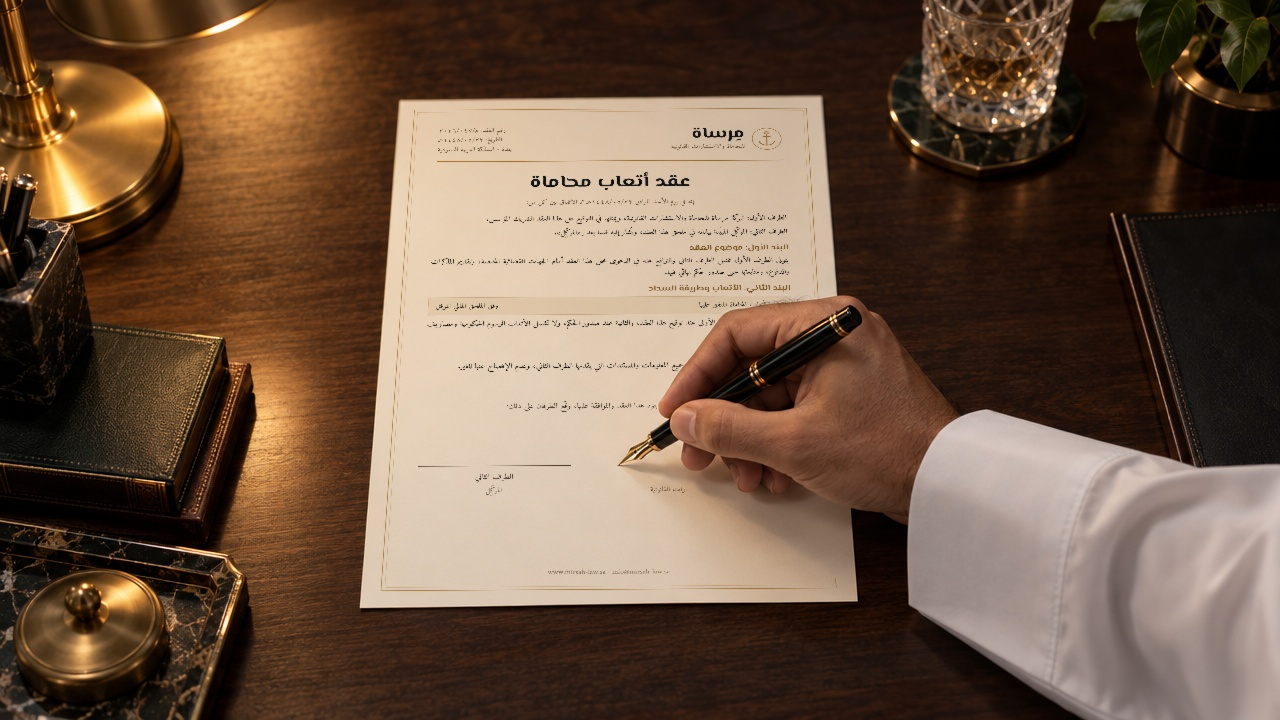
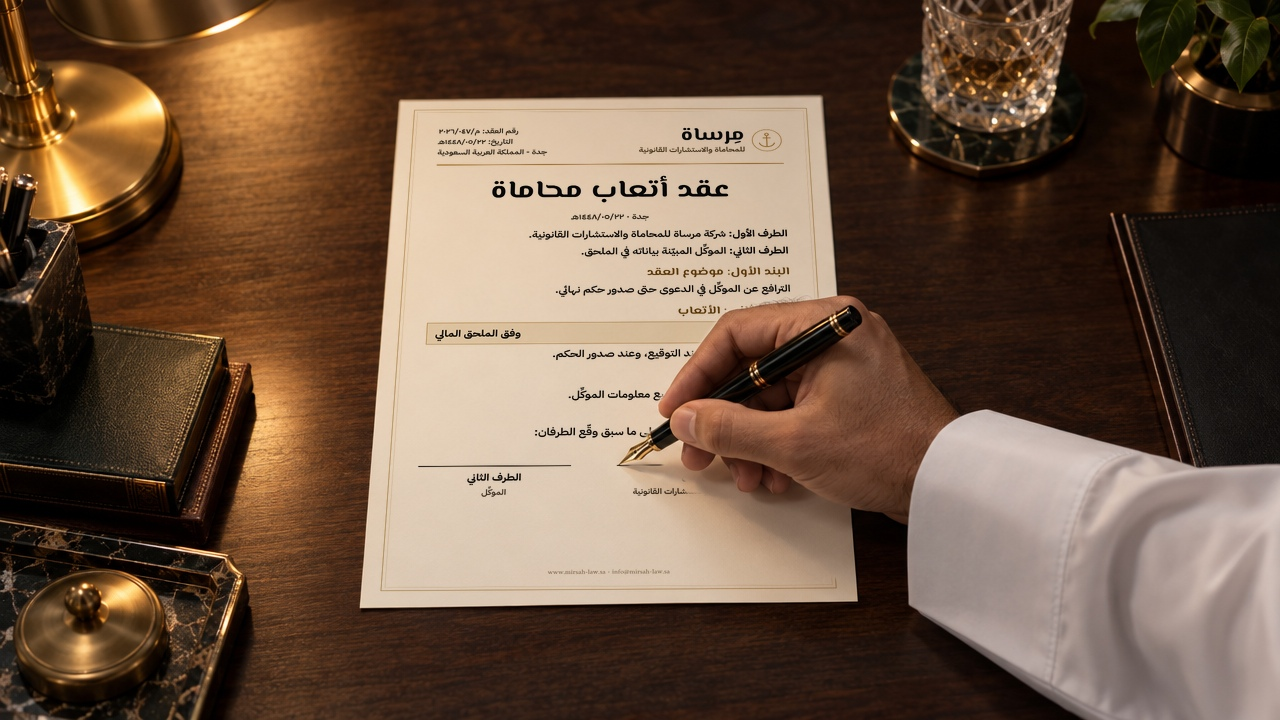
Make contract text larger and legible in the Kling start frame
Claude-Session: https://claude.ai/code/session_01Ga1p9oGE8DCELHe8fN9sZk

Changed region(s): [[0.3125, 0.1833, 0.625, 0.6111], [0.3438, 0.6417, 0.4062, 0.7028], [0.5, 0.6722, 0.5312, 0.7028]]

diff --git a/lawyer-jeddah/fee-contract.html b/lawyer-jeddah/fee-contract.html
@@ -1,6 +1,6 @@
 <!doctype html>
 <html lang="ar" dir="rtl"><head><meta charset="utf-8">
-<link rel="stylesheet" href="https://fonts.googleapis.com/css2?family=Amiri:wght@400;700&family=El+Messiri:wght@600;700&family=Mrs+Saint+Delafield&display=swap">
+<link rel="stylesheet" href="https://fonts.googleapis.com/css2?family=Amiri:wght@400;700&family=IBM+Plex+Sans+Arabic:wght@500;600;700&family=El+Messiri:wght@600;700&family=Mrs+Saint+Delafield&display=swap">
 <style>
 html,body{margin:0}
 .page{width:1240px;height:1754px;background:#FBF8F1;box-sizing:border-box;padding:110px 120px;font-family:"Amiri",serif;color:#24201A;position:relative}
@@ -8,19 +8,19 @@ html,body{margin:0}
 .page::after{content:"";position:absolute;inset:54px;border:1px solid #E3D4B0}
 .hd{display:flex;justify-content:space-between;align-items:center;border-bottom:3px solid #B8924A;padding-bottom:26px}
 .logo{display:flex;align-items:center;gap:18px}
-.logo b{font-family:"El Messiri";font-size:58px;line-height:1;color:#14161A}
-.logo small{display:block;font-size:22px;color:#7A6A4C}
-.no{font-size:22px;color:#6E6250;text-align:left;line-height:1.7}
-h1{font-family:"El Messiri";font-size:62px;text-align:center;margin:34px 0 6px;color:#14161A}
-.sub{text-align:center;font-size:22px;color:#6E6250;margin-bottom:22px}
-.p{font-size:24px;line-height:1.75;margin:0 0 10px;text-align:justify}
-.cl{font-family:"El Messiri";font-size:27px;color:#8C6A2C;margin:16px 0 4px}
-.fee{display:flex;justify-content:space-between;border:1.5px solid #D8C79F;background:#F4EDDD;padding:10px 20px;font-size:23px;margin:6px 0 10px}
+.logo b{font-family:"El Messiri";font-weight:700;font-size:70px;line-height:1;color:#14161A}
+.logo small{display:block;font-family:"IBM Plex Sans Arabic";font-weight:600;font-size:26px;color:#5E4E30}
+.no{font-family:"IBM Plex Sans Arabic";font-weight:600;font-size:26px;color:#3E372C;text-align:left;line-height:1.6}
+h1{font-family:"El Messiri";font-weight:700;font-size:92px;text-align:center;margin:30px 0 4px;color:#0E0F12}
+.sub{text-align:center;font-family:"IBM Plex Sans Arabic";font-weight:600;font-size:28px;color:#3E372C;margin-bottom:18px}
+.p{font-family:"IBM Plex Sans Arabic";font-weight:600;font-size:33px;line-height:1.6;margin:0 0 10px;color:#1A1712}
+.cl{font-family:"El Messiri";font-weight:700;font-size:38px;color:#7A5A1E;margin:22px 0 4px}
+.fee{display:flex;justify-content:space-between;border:2px solid #C9AE76;background:#F1E8D4;padding:12px 22px;font-family:"IBM Plex Sans Arabic";font-weight:700;font-size:32px;margin:6px 0 8px;color:#1A1712}
 .sigs{position:absolute;inset:0;pointer-events:none}
 .sig.first{position:absolute;left:640px;width:480px;top:1324px}
 .sig.second{position:absolute;left:120px;width:400px;top:1324px}
-.sig{border-top:2px solid #6E6250;padding-top:14px;text-align:center;font-size:24px;color:#4E463A;position:relative}
-.sig .name{font-size:22px;color:#7A6A4C}
+.sig{border-top:3px solid #3E372C;padding-top:12px;text-align:center;font-family:"IBM Plex Sans Arabic";font-weight:700;font-size:30px;color:#1A1712;position:relative}
+.sig .name{font-size:24px;font-weight:600;color:#4E4434}
 .ink{position:absolute;left:14px;right:0;top:-104px;text-align:left;font-family:"Mrs Saint Delafield",cursive;font-size:122px;line-height:1;color:#152A5C;transform:rotate(-4deg)}
 .foot{position:absolute;left:120px;right:120px;bottom:80px;text-align:center;font-size:19px;color:#9A8B6E}
 body.nosig .ink{display:none}
@@ -34,17 +34,17 @@ body.nosig .ink{display:none}
     <div class="no">رقم العقد: م/٢٠٢٦/٠٤٧<br>التاريخ: ١٤٤٨/٠٥/٢٢هـ<br>جدة - المملكة العربية السعودية</div>
   </div>
   <h1>عقد أتعاب محاماة</h1>
-  <div class="sub">إنه في يوم الأحد الموافق ١٤٤٨/٠٥/٢٢هـ تم الاتفاق بين كل من:</div>
-  <p class="p"><b>الطرف الأول:</b> شركة مرساة للمحاماة والاستشارات القانونية، ويمثلها في التوقيع على هذا العقد الشريك المؤسس.</p>
-  <p class="p"><b>الطرف الثاني:</b> الموكِّل المبيّنة بياناته في ملحق هذا العقد، ويُشار إليه فيما بعد بـ«الموكِّل».</p>
+  <div class="sub">جدة · ١٤٤٨/٠٥/٢٢هـ</div>
+  <p class="p"><b>الطرف الأول:</b> شركة مرساة للمحاماة والاستشارات القانونية.</p>
+  <p class="p"><b>الطرف الثاني:</b> الموكِّل المبيّنة بياناته في الملحق.</p>
   <div class="cl">البند الأول: موضوع العقد</div>
-  <p class="p">يتولى الطرف الأول تمثيل الطرف الثاني والترافع عنه في الدعوى محل هذا العقد أمام الجهات القضائية المختصة، وتقديم المذكرات والدفوع، ومتابعتها حتى صدور حكم نهائي فيها.</p>
-  <div class="cl">البند الثاني: الأتعاب وطريقة السداد</div>
-  <div class="fee"><span>إجمالي أتعاب المحاماة المتفق عليها</span><span>وفق الملحق المالي المرفق</span></div>
-  <p class="p">تُسدد الأتعاب على دفعتين: الأولى عند توقيع هذا العقد، والثانية عند صدور الحكم، ولا تشمل الأتعاب الرسوم الحكومية ومصاريف الخبراء.</p>
+  <p class="p">الترافع عن الموكِّل في الدعوى حتى صدور حكم نهائي.</p>
+  <div class="cl">البند الثاني: الأتعاب</div>
+  <div class="fee"><span>أتعاب المحاماة</span><span>وفق الملحق المالي</span></div>
+  <p class="p">تُسدد على دفعتين: عند التوقيع، وعند صدور الحكم.</p>
   <div class="cl">البند الثالث: السرية</div>
-  <p class="p">يلتزم الطرف الأول بالمحافظة على سرية جميع المعلومات والمستندات التي يقدمها الطرف الثاني، وعدم الإفصاح عنها للغير.</p>
-  <p class="p" style="position:absolute;left:120px;right:120px;top:1110px;text-align:center;color:#4E463A">وبعد الاطلاع على بنود هذا العقد والموافقة عليها، وقّع الطرفان على ذلك:</p>
+  <p class="p">يلتزم الطرف الأول بسرية جميع معلومات الموكِّل.</p>
+  <p class="p" style="position:absolute;left:120px;right:120px;top:1190px;text-align:center;color:#1A1712">وبناءً على ما سبق وقّع الطرفان:</p>
   <div class="sigs">
     <div class="sig second">الطرف الثاني<br><span class="name">الموكِّل</span></div>
     <div class="sig first"><div class="ink">Mirsah</div>الطرف الأول<br><span class="name">شركة مرساة للمحاماة والاستشارات القانونية</span></div>
